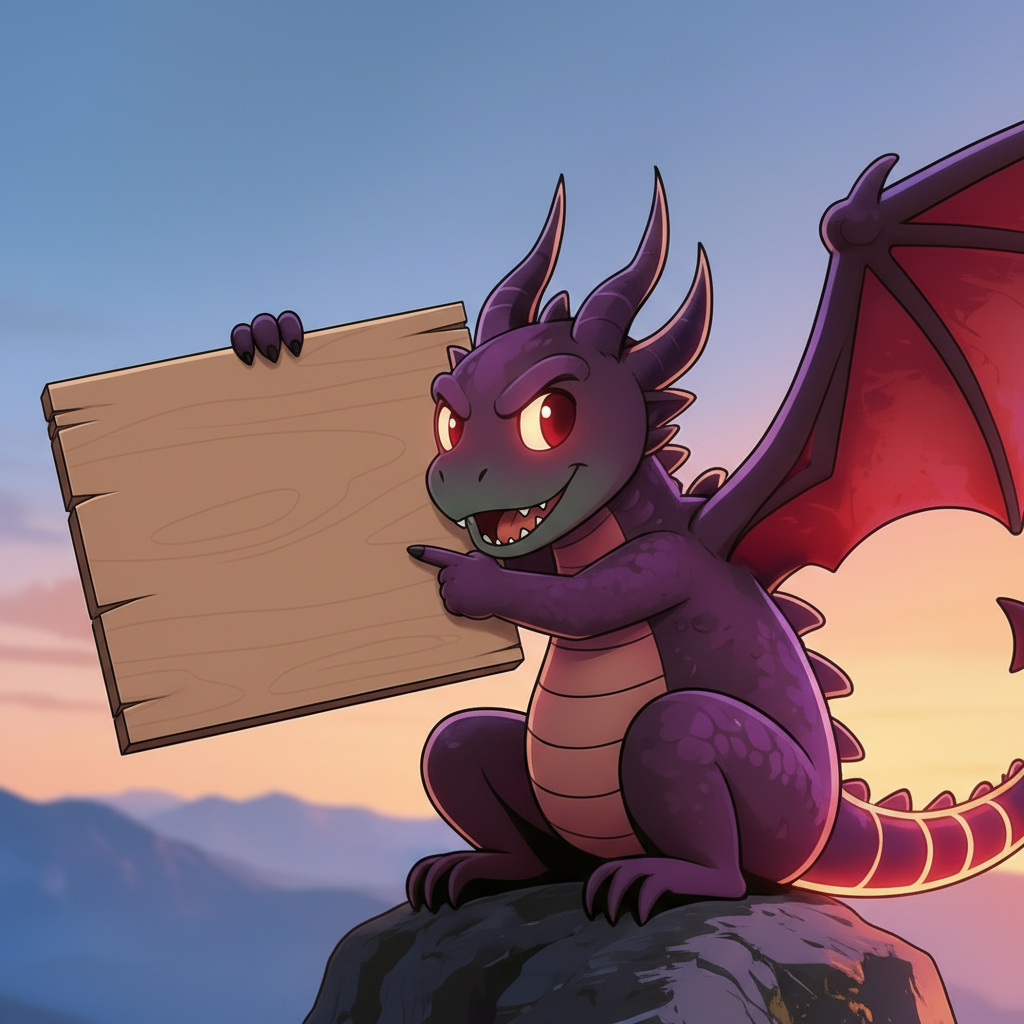
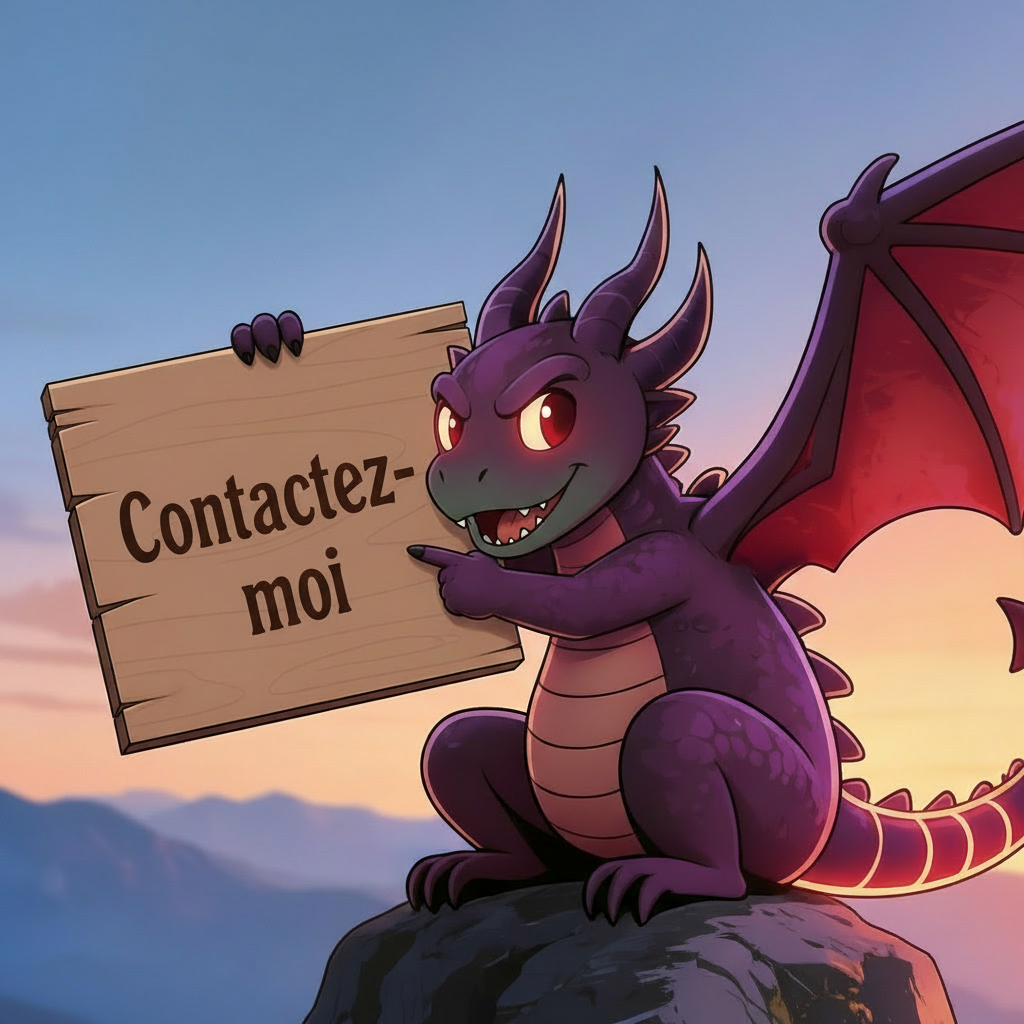
feat : about grid 4, add xl size bottom margin

Changed region(s): [[0.0938, 0.4375, 0.4062, 0.625]]

diff --git a/src/sections/About.jsx b/src/sections/About.jsx
@@ -20,12 +20,29 @@ const About = () => {
                 </p>
             </div>
         </div>
-        {/* Grid 2 */}
-        <div className="flex items-end grid-default-color grid-2">
-            <img src="assets/grid-3-ctadragon.png" 
-            alt="" 
-            className="absolute scale-[1.75] -bottom-10 md:scale-[1.75] md:-bottom-2 xl:scale-[1.25] xl:-bottom-25">
-            </img>
+        {/* Grid 2 - Flip Card */}
+        <div className="grid-default-color grid-2 perspective:1000px group cursor-pointer">
+            <div className="relative w-full h-full transition-transform duration-1200 transform-3d group-hover:[transform:rotateY(180deg)]">
+                {/* Face avant (image) */}
+                <div className="absolute inset-0 flex items-end [backface-visibility:hidden]">
+                    <img 
+                        src="assets/grid-3-ctadragon.png" 
+                        alt="" 
+                        className="absolute scale-[1.75] -bottom-10 md:scale-[1.75] md:-bottom-2 xl:scale-[1.25] xl:-bottom-25"
+                    />
+                </div>
+                
+                {/* Face arrière (texte) */}
+                <div className="absolute inset-0 flex items-center justify-center p-6 [backface-visibility:hidden] [transform:rotateY(180deg)]">
+                    <div className="text-center z-10">
+                        <h3 className="headtext mb-4">Contactez-moi</h3>
+                        <p className="subtext2 mb-6">
+                            Discutons de votre prochain projet
+                        </p>
+                        <a href="#contact" className="btn">Contactez-moi</a>
+                    </div>
+                </div>
+            </div>
         </div>
         {/* Grid 3 */}
         <div className="flex items-end grid-black-color grid-3">
@@ -36,7 +53,7 @@ const About = () => {
         <div className="flex items-end grid-special-color grid-4">
             <img src="assets/grid-4-architectedragon.png" 
             alt="" 
-            className="absolute scale-[1.75] -bottom-25 md:scale-[2.25] md:-bottom-5">
+            className="absolute scale-[1.75] -bottom-25 md:scale-[2.25] md:-bottom-15 xl:scale-[2.0] xl:-bottom-25">
             </img>
         </div>
         {/* Grid 5 */}